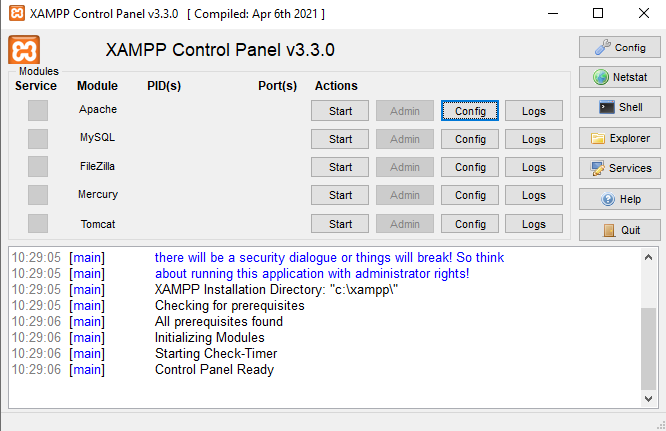
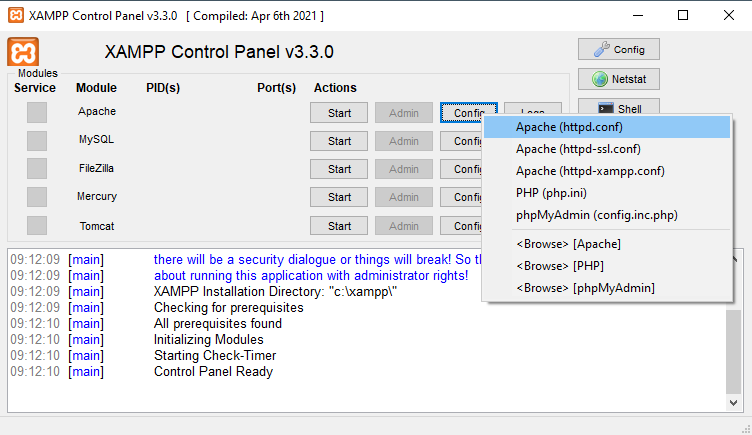
Update README section Displaying a Model in the Browser
Highlight technical names for consistency with other sections
Add link to previous subsection
Update xampp.png image for better clarity of instructions

diff --git a/README.md b/README.md
@@ -34,13 +34,13 @@ The resulting model files (model.html and metaData.json) are placed in the neo4j
 
 ### Displaying a Model in the Browser
 
-| :warning: WARNING                                                                                                                                                                                                      |
-|:-----------------------------------------------------------------------------------------------------------------------------------------------------------------------------------------------------------------------|
-| Before you get started with displaying the model in the browser, you will need a node_modules folder in the ui folder. Unfortunately, we are currently unable to upload this folder to the repository.                 |
+| :warning: WARNING                                                                                                                                                                                                     |
+|:----------------------------------------------------------------------------------------------------------------------------------------------------------------------------------------------------------------------|
+| Before you get started with displaying your model in the browser, you will need a ```node_modules/``` folder in the ```ui/``` folder. Unfortunately, we are currently unable to upload this folder to the repository. |
 
-After executing all the steps, two files will have been generated for you: model.html and metaData.json.
+After following the instructions in section [Generating a Model](#generating-a-model), two files will have been generated for you: model.html and metaData.json.
 
-To display the model in the browser, first, navigate to the folder ui/data. Create a folder with a fitting name, for example "Test". Create a subfolder named "model". Copy both the model.html file and the metaData.json file into the this subfolder.
+To display the model in the browser, first navigate to the folder ```ui/data/```. Create a subfolder with a name of your liking, for example ```Test/```. Inside the newly created subfolder, create another subfolder named ```model/```. Copy both the model.html file and the metaData.json file into this subfolder.
 
 Next, you will need a webserver. We recommend [XAMPP](https://www.apachefriends.org/download.html).
 
@@ -53,9 +53,9 @@ Click on the config for Apache and select Apache (httpd.conf). Change the path b
 Save the config, close it, and start the Apache Module.
 
 You should now be able to view the visualization in the browser.
-Enter the URL http://localhost/index.php?setup=ABAP/PackageExplorer&model={folderName}
+Enter the URL http://localhost/index.php?setup=ABAP/PackageExplorer&model={folderName}, where ```{folderName}``` is the name of the folder inside which you created the ```model/``` subfolder.
 
-Instead of {folderName}, use the name of your model folder in ui/data/, for example http://localhost/index.php?setup=ABAP/PackageExplorer&model=Test
+In our example, it is named ```Test```, so the complete URL will be http://localhost/index.php?setup=ABAP/PackageExplorer&model=Test.
 
 The visualization will look similar to this:
 
